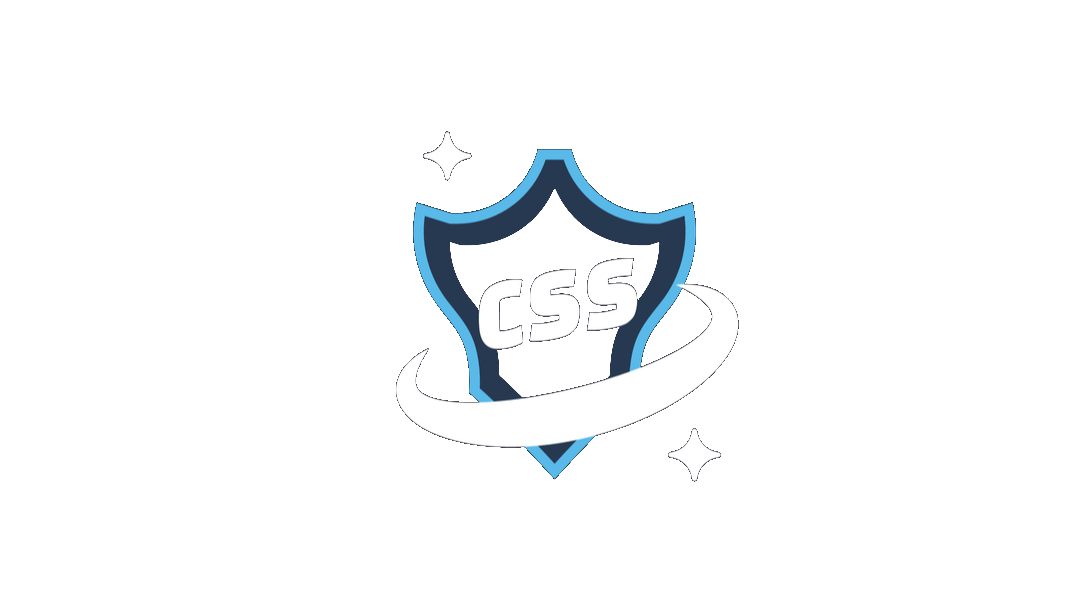
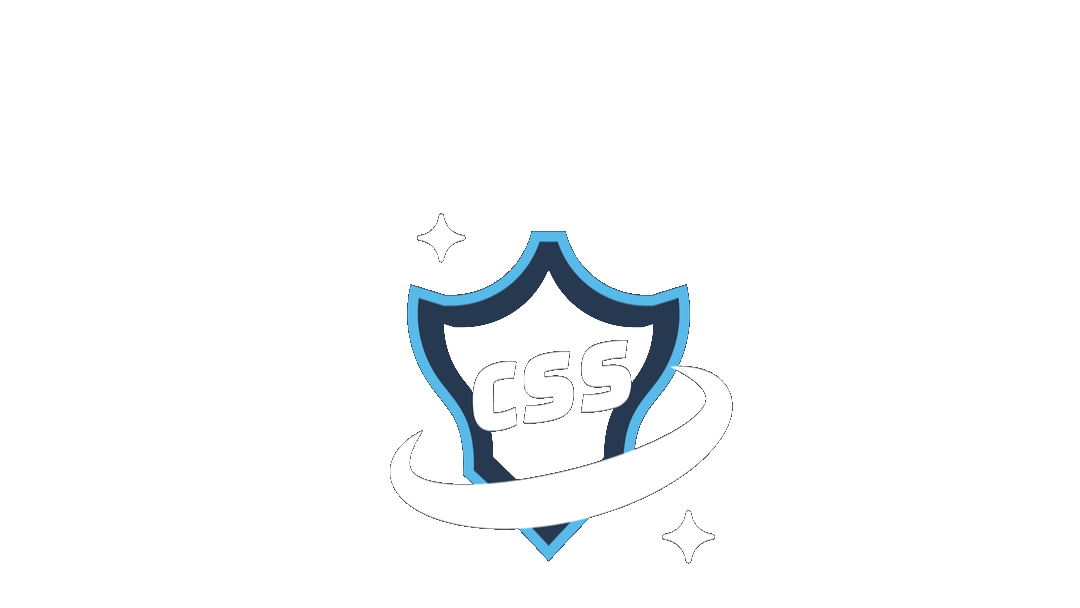
df

Changed region(s): [[0.3667, 0.2188, 0.6722, 0.8125], [0.4583, 0.8438, 0.55, 0.9375]]

diff --git a/index.html b/index.html
@@ -10,10 +10,14 @@
     <div id="app"></div>
     <div style="display: flex; flex-direction: column; gap: 20px;">
       <img src="/public/snake.gif" alt="" srcset="">
+<div>
+  
+  <img src="/public/JavaScript.png" title="Java" alt="Java" width="80">&nbsp;
+  <img src="/public/CSS.png" alt="Java" width="130" style="margin-top: 0px; margin-left: -30px;">&nbsp;
+</div>
 
-      <img src="/public/JavaScript.png" title="Java" alt="Java" width="80" peak="80"/>&nbsp;
 
-      <img src="/public/earth.gif" style="width: 200px;" alt="" srcset="">
+      <!-- <img src="/public/earth.gif" style="width: 200px;" alt="" srcset=""> -->
     </div>
 
       <script type="module" src="/src/main.ts"></script>

diff --git a/readme.md b/readme.md
@@ -8,9 +8,9 @@
 
 <div>Языки:</div>
 <div>
-  <img src="/public/JavaScript.png" alt="Java" width="80" peak="80"/>&nbsp;
-  <img src="/public/CSS.png" alt="Java" width="120" peak="120"/>&nbsp;
-  <img src="/public/JavaScript.png" alt="Java" width="80" peak="80"/>&nbsp;
+  <img src="/public/JavaScript.png" alt="Java" width="80">&nbsp;
+   <img src="/public/CSS.png" alt="Java" width="130" style="margin-top: 0px; margin-left: -30px;">&nbsp;
+  
 
 
 
